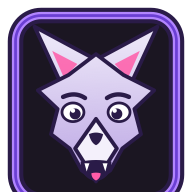
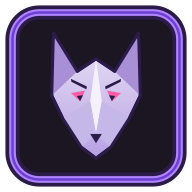
feat: update the wolf mark to the faceted low-poly artwork
Picks up the new master from the vault's attachments/branding/ (svg +
the 32/48/192/512 raster sizes the site uses).

The new badge is square (460x460 viewBox) where the old art was taller
than wide (420x480), so at the same CSS width it rendered noticeably
shorter than the WuFF wordmark. Bumped the clamp to 2-2.6rem and the
vertical-align to -0.3em so it stands at the wordmark's height again.
The img's width/height attributes were already square, which now
matches the artwork's real aspect ratio rather than fighting it.

Rendered at 1100px and 390px before and after: mark and favicon load,
no overflow, tagline still on the wordmark's baseline.

diff --git a/app/templates/base.html b/app/templates/base.html
@@ -48,7 +48,7 @@
          out of line with "WuFF" by the height the logo overhangs. Keeping the
          anchor inline and nudging the image with vertical-align leaves the
          wordmark's baseline as the h1's, so the tagline lines up again. */
-      .brand-mark { width: clamp(1.6rem, 6vw, 2.1rem); height: auto; vertical-align: -0.22em; margin-right: 0.45rem; }
+      .brand-mark { width: clamp(2rem, 7.5vw, 2.6rem); height: auto; vertical-align: -0.3em; margin-right: 0.5rem; }
       .tagline { margin: 0; color: var(--pink); font-size: clamp(0.75rem, 2vw, 0.9rem); flex: 1 1 auto; }
       nav { display: flex; flex-wrap: wrap; align-items: center; gap: 0.25rem; }
       nav a { color: var(--pink); text-decoration: none; font-size: clamp(0.75rem, 2.5vw, 0.95rem); font-weight: 600; padding: 0.5rem 0.7rem; border-radius: 6px; transition: background .15s, color .15s; }
